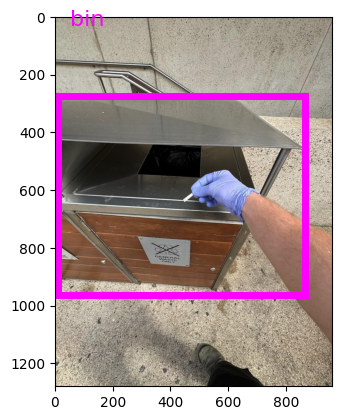
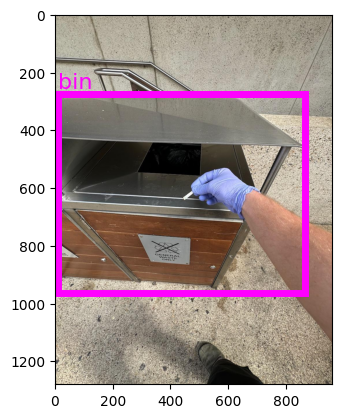
fix typo

diff --git a/_site/posts/a-gentle-guide-to-intersection-over-union/index.html b/_site/posts/a-gentle-guide-to-intersection-over-union/index.html
@@ -1177,7 +1177,7 @@ Box type: shrink | Box: Box(x_min=51.0, y_min=51.0, x_max=149.0, y_max=149.0) | 
 <h3 class="anchored" data-anchor-id="getting-a-real-image-and-real-bounding-box-annotation">Getting a real image and real bounding box annotation</h3>
 <p>We’ll use an image from an object detection project I’ve worked on called <a href="https://www.learnhuggingface.com/notebooks/hugging_face_object_detection_tutorial">Trashify</a>, where the goal is to detect <code>["bin", "trash", "hand"]</code> in an image (if all 3 classes are present, you get +1 point) to encourage people to pick up trash in their local area.</p>
 <p>The annotations are made using <a href="https://prodi.gy/">Prodigy</a>, a labelling tool (there are many kinds of labelling tools out there, you could even get AI to generate a custom one for you).</p>
-<div id="cell-42" class="cell" data-quarto-private-1="{&quot;key&quot;:&quot;colab&quot;,&quot;value&quot;:{&quot;base_uri&quot;:&quot;https://localhost:8080/&quot;}}" data-outputid="189d80b5-6d84-489c-a3ff-4398a238862e">
+<div id="cell-42" class="cell" data-quarto-private-1="{&quot;key&quot;:&quot;colab&quot;,&quot;value&quot;:{&quot;base_uri&quot;:&quot;https://localhost:8080/&quot;}}" data-outputid="189d80b5-6d84-489c-a3ff-4398a238862e" data-execution_count="15">
 <div class="sourceCode cell-code" id="cb27"><pre class="sourceCode python code-with-copy"><code class="sourceCode python"><span id="cb27-1"><a href="#cb27-1" aria-hidden="true" tabindex="-1"></a><span class="im">import</span> os</span>
 <span id="cb27-2"><a href="#cb27-2" aria-hidden="true" tabindex="-1"></a></span>
 <span id="cb27-3"><a href="#cb27-3" aria-hidden="true" tabindex="-1"></a>image_path <span class="op">=</span> <span class="st">"trashify_demo_image_for_box_format.jpeg"</span></span>
@@ -1190,7 +1190,7 @@ Box type: shrink | Box: Box(x_min=51.0, y_min=51.0, x_max=149.0, y_max=149.0) | 
 <span id="cb27-10"><a href="#cb27-10" aria-hidden="true" tabindex="-1"></a>    <span class="op">!</span>wget https:<span class="op">//</span>raw.githubusercontent.com<span class="op">/</span>mrdbourke<span class="op">/</span>learn<span class="op">-</span>ml<span class="op">/</span>refs<span class="op">/</span>heads<span class="op">/</span>main<span class="op">/</span>posts<span class="op">/</span>a<span class="op">-</span>guide<span class="op">-</span>to<span class="op">-</span>bounding<span class="op">-</span>box<span class="op">-</span>formats<span class="op">/</span>data<span class="op">/</span>trashify_demo_image_annotations.json</span></code><button title="Copy to Clipboard" class="code-copy-button"><i class="bi"></i></button></pre></div>
 </div>
 <p>Real image and box annotation downloaded!</p>
-<div id="cell-44" class="cell" data-quarto-private-1="{&quot;key&quot;:&quot;colab&quot;,&quot;value&quot;:{&quot;base_uri&quot;:&quot;https://localhost:8080/&quot;,&quot;height&quot;:452}}" data-outputid="f30d8301-18a9-4c30-d0fd-d4f9eda8745b">
+<div id="cell-44" class="cell" data-quarto-private-1="{&quot;key&quot;:&quot;colab&quot;,&quot;value&quot;:{&quot;base_uri&quot;:&quot;https://localhost:8080/&quot;,&quot;height&quot;:452}}" data-outputid="f30d8301-18a9-4c30-d0fd-d4f9eda8745b" data-execution_count="16">
 <div class="sourceCode cell-code" id="cb28"><pre class="sourceCode python code-with-copy"><code class="sourceCode python"><span id="cb28-1"><a href="#cb28-1" aria-hidden="true" tabindex="-1"></a><span class="im">from</span> PIL <span class="im">import</span> Image</span>
 <span id="cb28-2"><a href="#cb28-2" aria-hidden="true" tabindex="-1"></a></span>
 <span id="cb28-3"><a href="#cb28-3" aria-hidden="true" tabindex="-1"></a>loaded_image <span class="op">=</span> Image.<span class="bu">open</span>(image_path)</span>
@@ -1268,8 +1268,8 @@ Box type: shrink | Box: Box(x_min=51.0, y_min=51.0, x_max=149.0, y_max=149.0) | 
 <span id="cb34-8"><a href="#cb34-8" aria-hidden="true" tabindex="-1"></a></span>
 <span id="cb34-9"><a href="#cb34-9" aria-hidden="true" tabindex="-1"></a>fig, ax <span class="op">=</span> plt.subplots()</span>
 <span id="cb34-10"><a href="#cb34-10" aria-hidden="true" tabindex="-1"></a>ax.add_patch(annotation_rect)</span>
-<span id="cb34-11"><a href="#cb34-11" aria-hidden="true" tabindex="-1"></a>ax.text(x<span class="op">=</span>box_coordinates.x_min,</span>
-<span id="cb34-12"><a href="#cb34-12" aria-hidden="true" tabindex="-1"></a>        y<span class="op">=</span>box_coordinates.y_min <span class="op">-</span> <span class="dv">20</span>,</span>
+<span id="cb34-11"><a href="#cb34-11" aria-hidden="true" tabindex="-1"></a>ax.text(x<span class="op">=</span>real_box_coordinates.x_min,</span>
+<span id="cb34-12"><a href="#cb34-12" aria-hidden="true" tabindex="-1"></a>        y<span class="op">=</span>real_box_coordinates.y_min <span class="op">-</span> <span class="dv">20</span>,</span>
 <span id="cb34-13"><a href="#cb34-13" aria-hidden="true" tabindex="-1"></a>        s<span class="op">=</span>box_label_text,</span>
 <span id="cb34-14"><a href="#cb34-14" aria-hidden="true" tabindex="-1"></a>        color<span class="op">=</span>box_colour,</span>
 <span id="cb34-15"><a href="#cb34-15" aria-hidden="true" tabindex="-1"></a>        fontsize<span class="op">=</span><span class="dv">16</span>)</span>
@@ -1378,7 +1378,7 @@ Box type: shrink | Box: Box(x_min=12.9, y_min=279.3, x_max=863.5, y_max=960.0) |
 </div>
 </div>
 <p>Boxes created, now let’s see what they look like!</p>
-<div id="cell-57" class="cell" data-quarto-private-1="{&quot;key&quot;:&quot;colab&quot;,&quot;value&quot;:{&quot;base_uri&quot;:&quot;https://localhost:8080/&quot;,&quot;height&quot;:756}}" data-outputid="298b5c1c-9260-433d-e07b-6a25e0ef9e8a">
+<div id="cell-57" class="cell" data-quarto-private-1="{&quot;key&quot;:&quot;colab&quot;,&quot;value&quot;:{&quot;base_uri&quot;:&quot;https://localhost:8080/&quot;,&quot;height&quot;:756}}" data-outputid="298b5c1c-9260-433d-e07b-6a25e0ef9e8a" data-execution_count="22">
 <div class="sourceCode cell-code" id="cb38"><pre class="sourceCode python code-with-copy"><code class="sourceCode python"><span id="cb38-1"><a href="#cb38-1" aria-hidden="true" tabindex="-1"></a><span class="im">from</span> matplotlib.patches <span class="im">import</span> Patch</span>
 <span id="cb38-2"><a href="#cb38-2" aria-hidden="true" tabindex="-1"></a></span>
 <span id="cb38-3"><a href="#cb38-3" aria-hidden="true" tabindex="-1"></a><span class="co"># Make a dict for box_type -&gt; colour to plot</span></span>
@@ -1695,27 +1695,27 @@ Box type: shrink | Box: Box(x_min=12.9, y_min=279.3, x_max=863.5, y_max=960.0) |
 <span id="cb51-52"><a href="#cb51-52" aria-hidden="true" tabindex="-1"></a>  results_dict[NUM_SAMPLES] <span class="op">=</span> times</span></code><button title="Copy to Clipboard" class="code-copy-button"><i class="bi"></i></button></pre></div>
 <div class="cell-output cell-output-stdout">
 <pre><code>[INFO] Time taken for 1 samples using batched IoU calculations: 0.0s
-[INFO] Time taken for 1 samples using one by one IoU calculations: 0.00157s
+[INFO] Time taken for 1 samples using one by one IoU calculations: 0.00181s
 [INFO] Total boxes calculated on (per function): 500
 
 [INFO] Time taken for 10 samples using batched IoU calculations: 0.0s
-[INFO] Time taken for 10 samples using one by one IoU calculations: 0.01514s
+[INFO] Time taken for 10 samples using one by one IoU calculations: 0.01475s
 [INFO] Total boxes calculated on (per function): 5000
 
 [INFO] Time taken for 100 samples using batched IoU calculations: 0.001s
-[INFO] Time taken for 100 samples using one by one IoU calculations: 0.14749s
+[INFO] Time taken for 100 samples using one by one IoU calculations: 0.14879s
 [INFO] Total boxes calculated on (per function): 50000
 
 [INFO] Time taken for 1000 samples using batched IoU calculations: 0.012s
-[INFO] Time taken for 1000 samples using one by one IoU calculations: 1.47593s
+[INFO] Time taken for 1000 samples using one by one IoU calculations: 1.47221s
 [INFO] Total boxes calculated on (per function): 500000
 
-[INFO] Time taken for 10000 samples using batched IoU calculations: 0.121s
-[INFO] Time taken for 10000 samples using one by one IoU calculations: 14.57437s
+[INFO] Time taken for 10000 samples using batched IoU calculations: 0.118s
+[INFO] Time taken for 10000 samples using one by one IoU calculations: 14.91115s
 [INFO] Total boxes calculated on (per function): 5000000
 
-CPU times: user 16.3 s, sys: 61.1 ms, total: 16.3 s
-Wall time: 16.3 s</code></pre>
+CPU times: user 16.6 s, sys: 79.1 ms, total: 16.7 s
+Wall time: 16.7 s</code></pre>
 </div>
 </div>
 <p>Woah! Looks like the batch IoU calculations perform far quicker than the one by one calculations.</p>
@@ -1732,11 +1732,11 @@ Wall time: 16.3 s</code></pre>
 <span id="cb53-9"><a href="#cb53-9" aria-hidden="true" tabindex="-1"></a></span>
 <span id="cb53-10"><a href="#cb53-10" aria-hidden="true" tabindex="-1"></a>  <span class="bu">print</span>(<span class="ss">f"[INFO] Using </span><span class="sc">{</span>faster_key<span class="sc">}</span><span class="ss"> for </span><span class="sc">{</span>num_samples<span class="sc">}</span><span class="ss"> samples is </span><span class="sc">{</span><span class="bu">round</span>(times[slower_key] <span class="op">/</span> times[faster_key], <span class="dv">2</span>)<span class="sc">}</span><span class="ss">x faster than using </span><span class="sc">{</span>slower_key<span class="sc">}</span><span class="ss">"</span>)</span></code><button title="Copy to Clipboard" class="code-copy-button"><i class="bi"></i></button></pre></div>
 <div class="cell-output cell-output-stdout">
-<pre><code>[INFO] Using batch_iou_time for 1 samples is 120.45x faster than using one_by_one_iou_time
-[INFO] Using batch_iou_time for 10 samples is 120.45x faster than using one_by_one_iou_time
-[INFO] Using batch_iou_time for 100 samples is 120.45x faster than using one_by_one_iou_time
-[INFO] Using batch_iou_time for 1000 samples is 120.45x faster than using one_by_one_iou_time
-[INFO] Using batch_iou_time for 10000 samples is 120.45x faster than using one_by_one_iou_time</code></pre>
+<pre><code>[INFO] Using batch_iou_time for 1 samples is 126.37x faster than using one_by_one_iou_time
+[INFO] Using batch_iou_time for 10 samples is 126.37x faster than using one_by_one_iou_time
+[INFO] Using batch_iou_time for 100 samples is 126.37x faster than using one_by_one_iou_time
+[INFO] Using batch_iou_time for 1000 samples is 126.37x faster than using one_by_one_iou_time
+[INFO] Using batch_iou_time for 10000 samples is 126.37x faster than using one_by_one_iou_time</code></pre>
 </div>
 </div>
 <p>Ok ok…</p>
@@ -1747,11 +1747,11 @@ Wall time: 16.3 s</code></pre>
 <div id="cell-77" class="cell" data-quarto-private-1="{&quot;key&quot;:&quot;colab&quot;,&quot;value&quot;:{&quot;base_uri&quot;:&quot;https://localhost:8080/&quot;}}" data-outputid="c9260a4f-1b03-47ed-b88e-ab4fd71a319a" data-execution_count="31">
 <div class="sourceCode cell-code" id="cb55"><pre class="sourceCode python code-with-copy"><code class="sourceCode python"><span id="cb55-1"><a href="#cb55-1" aria-hidden="true" tabindex="-1"></a>results_dict</span></code><button title="Copy to Clipboard" class="code-copy-button"><i class="bi"></i></button></pre></div>
 <div class="cell-output cell-output-display" data-execution_count="31">
-<pre><code>{1: {'batch_iou_time': 0.0, 'one_by_one_iou_time': 0.00157},
- 10: {'batch_iou_time': 0.0, 'one_by_one_iou_time': 0.01514},
- 100: {'batch_iou_time': 0.001, 'one_by_one_iou_time': 0.14749},
- 1000: {'batch_iou_time': 0.012, 'one_by_one_iou_time': 1.47593},
- 10000: {'batch_iou_time': 0.121, 'one_by_one_iou_time': 14.57437}}</code></pre>
+<pre><code>{1: {'batch_iou_time': 0.0, 'one_by_one_iou_time': 0.00181},
+ 10: {'batch_iou_time': 0.0, 'one_by_one_iou_time': 0.01475},
+ 100: {'batch_iou_time': 0.001, 'one_by_one_iou_time': 0.14879},
+ 1000: {'batch_iou_time': 0.012, 'one_by_one_iou_time': 1.47221},
+ 10000: {'batch_iou_time': 0.118, 'one_by_one_iou_time': 14.91115}}</code></pre>
 </div>
 </div>
 <p>Beautiful!</p>

diff --git a/_site/blog.html b/_site/blog.html
@@ -20,41 +20,6 @@ ul.task-list li input[type="checkbox"] {
   margin: 0 0.8em 0.2em -1em; /* quarto-specific, see https://github.com/quarto-dev/quarto-cli/issues/4556 */ 
   vertical-align: middle;
 }
-/* CSS for syntax highlighting */
-html { -webkit-text-size-adjust: 100%; }
-pre > code.sourceCode { white-space: pre; position: relative; }
-pre > code.sourceCode > span { display: inline-block; line-height: 1.25; }
-pre > code.sourceCode > span:empty { height: 1.2em; }
-.sourceCode { overflow: visible; }
-code.sourceCode > span { color: inherit; text-decoration: inherit; }
-div.sourceCode { margin: 1em 0; }
-pre.sourceCode { margin: 0; }
-@media screen {
-div.sourceCode { overflow: auto; }
-}
-@media print {
-pre > code.sourceCode { white-space: pre-wrap; }
-pre > code.sourceCode > span { text-indent: -5em; padding-left: 5em; }
-}
-pre.numberSource code
-  { counter-reset: source-line 0; }
-pre.numberSource code > span
-  { position: relative; left: -4em; counter-increment: source-line; }
-pre.numberSource code > span > a:first-child::before
-  { content: counter(source-line);
-    position: relative; left: -1em; text-align: right; vertical-align: baseline;
-    border: none; display: inline-block;
-    -webkit-touch-callout: none; -webkit-user-select: none;
-    -khtml-user-select: none; -moz-user-select: none;
-    -ms-user-select: none; user-select: none;
-    padding: 0 4px; width: 4em;
-  }
-pre.numberSource { margin-left: 3em;  padding-left: 4px; }
-div.sourceCode
-  {   }
-@media screen {
-pre > code.sourceCode > span > a:first-child::before { text-decoration: underline; }
-}
 </style>
 
 
@@ -220,7 +185,7 @@ window.Quarto = {
 <header id="title-block-header" class="quarto-title-block default page-columns page-full">
   <div class="quarto-title-banner page-columns page-full">
     <div class="quarto-title column-page-left">
-      <div class="quarto-title-block"><div><h1 class="title">Blog</h1><button type="button" class="btn code-tools-button" id="quarto-code-tools-source"><i class="bi"></i></button></div></div>
+      <div class="quarto-title-block"><div><h1 class="title">Blog</h1><button type="button" class="btn code-tools-button" id="quarto-code-tools-source" data-quarto-source-url="https://github.com/mrdbourke/learn-ml/blob/main/blog.qmd"><i class="bi"></i> Code</button></div></div>
                       </div>
   </div>
     
@@ -249,12 +214,10 @@ window.Quarto = {
 
 
 
-<!-- -->
-
 
 <div class="quarto-listing quarto-listing-container-default" id="listing-listing">
 <div class="list quarto-listing-default">
[2 lines of base64/hex data omitted]
 <div class="thumbnail"><a href="./posts/a-gentle-guide-to-intersection-over-union/index.html" class="no-external">
 
 <img loading="lazy" src="./posts/a-gentle-guide-to-intersection-over-union/images/iou-blog-post-cover.jpg" class="thumbnail-image">
@@ -852,24 +815,10 @@ Daniel Bourke
       }
     }
   });
-  </script><div class="modal fade" id="quarto-embedded-source-code-modal" tabindex="-1" aria-labelledby="quarto-embedded-source-code-modal-label" aria-hidden="true"><div class="modal-dialog modal-dialog-scrollable"><div class="modal-content"><div class="modal-header"><h5 class="modal-title" id="quarto-embedded-source-code-modal-label">Source Code</h5><button class="btn-close" data-bs-dismiss="modal"></button></div><div class="modal-body"><div class="">
-<div class="sourceCode" id="cb1" data-shortcodes="false"><pre class="sourceCode markdown code-with-copy"><code class="sourceCode markdown"><span id="cb1-1"><a href="#cb1-1" aria-hidden="true" tabindex="-1"></a><span class="co">---</span></span>
-<span id="cb1-2"><a href="#cb1-2" aria-hidden="true" tabindex="-1"></a><span class="an">title:</span><span class="co"> "Blog"</span></span>
-<span id="cb1-3"><a href="#cb1-3" aria-hidden="true" tabindex="-1"></a><span class="an">listing:</span></span>
-<span id="cb1-4"><a href="#cb1-4" aria-hidden="true" tabindex="-1"></a><span class="co">  contents: posts</span></span>
-<span id="cb1-5"><a href="#cb1-5" aria-hidden="true" tabindex="-1"></a><span class="co">  sort: "date desc"</span></span>
-<span id="cb1-6"><a href="#cb1-6" aria-hidden="true" tabindex="-1"></a><span class="co">  type: default</span></span>
-<span id="cb1-7"><a href="#cb1-7" aria-hidden="true" tabindex="-1"></a><span class="co">  categories: true</span></span>
-<span id="cb1-8"><a href="#cb1-8" aria-hidden="true" tabindex="-1"></a><span class="co">  sort-ui: false</span></span>
-<span id="cb1-9"><a href="#cb1-9" aria-hidden="true" tabindex="-1"></a><span class="co">  filter-ui: false</span></span>
-<span id="cb1-10"><a href="#cb1-10" aria-hidden="true" tabindex="-1"></a><span class="co">  feed: true</span></span>
-<span id="cb1-11"><a href="#cb1-11" aria-hidden="true" tabindex="-1"></a><span class="an">page-layout:</span><span class="co"> full</span></span>
-<span id="cb1-12"><a href="#cb1-12" aria-hidden="true" tabindex="-1"></a><span class="an">title-block-banner:</span><span class="co"> true</span></span>
-<span id="cb1-13"><a href="#cb1-13" aria-hidden="true" tabindex="-1"></a><span class="co">---</span></span></code><button title="Copy to Clipboard" class="code-copy-button" data-in-quarto-modal=""><i class="bi"></i></button></pre></div>
-</div></div></div></div></div>
+  </script>
 </div> <!-- /content -->
 
 
 
 
-</body></html>
+<footer class="footer"><div class="nav-footer"><div class="nav-footer-center"><div class="toc-actions"><ul><li><a href="https://github.com/mrdbourke/learn-ml/edit/main/blog.qmd" class="toc-action"><i class="bi bi-github"></i>Edit this page</a></li><li><a href="https://github.com/mrdbourke/learn-ml/issues/new" class="toc-action"><i class="bi empty"></i>Report an issue</a></li></ul></div></div></div></footer></body></html>

diff --git a/_site/index.html b/_site/index.html
@@ -134,14 +134,14 @@ ul.task-list li input[type="checkbox"] {
   <li><a href="#section-1" id="toc-section-1" class="nav-link" data-scroll-target="#section-1">2024-08-18</a></li>
   <li><a href="#section-2" id="toc-section-2" class="nav-link" data-scroll-target="#section-2">2024-08-10</a></li>
   </ul>
-</nav>
+<div class="toc-actions"><ul><li><a href="https://github.com/mrdbourke/learn-ml/edit/main/index.qmd" class="toc-action"><i class="bi bi-github"></i>Edit this page</a></li><li><a href="https://github.com/mrdbourke/learn-ml/issues/new" class="toc-action"><i class="bi empty"></i>Report an issue</a></li></ul></div></nav>
     </div>
 <!-- main -->
 <main class="content" id="quarto-document-content">
 
 <header id="title-block-header" class="quarto-title-block default">
 <div class="quarto-title">
-<h1 class="title">Learning ML - Timeline</h1>
+<div class="quarto-title-block"><div><h1 class="title">Learning ML - Timeline</h1><button type="button" class="btn code-tools-button" id="quarto-code-tools-source" data-quarto-source-url="https://github.com/mrdbourke/learn-ml/blob/main/index.qmd"><i class="bi"></i> Code</button></div></div>
 </div>
 
 
@@ -257,6 +257,57 @@ ul.task-list li input[type="checkbox"] {
         container: window.document.getElementById('quarto-embedded-source-code-modal')
       });
       clipboardModal.on('success', onCopySuccess);
+    }
+    const viewSource = window.document.getElementById('quarto-view-source') ||
+                       window.document.getElementById('quarto-code-tools-source');
+    if (viewSource) {
+      const sourceUrl = viewSource.getAttribute("data-quarto-source-url");
+      viewSource.addEventListener("click", function(e) {
+        if (sourceUrl) {
+          // rstudio viewer pane
+          if (/\bcapabilities=\b/.test(window.location)) {
+            window.open(sourceUrl);
+          } else {
+            window.location.href = sourceUrl;
+          }
+        } else {
+          const modal = new bootstrap.Modal(document.getElementById('quarto-embedded-source-code-modal'));
+          modal.show();
+        }
+        return false;
+      });
+    }
+    function toggleCodeHandler(show) {
+      return function(e) {
+        const detailsSrc = window.document.querySelectorAll(".cell > details > .sourceCode");
+        for (let i=0; i<detailsSrc.length; i++) {
+          const details = detailsSrc[i].parentElement;
+          if (show) {
+            details.open = true;
+          } else {
+            details.removeAttribute("open");
+          }
+        }
+        const cellCodeDivs = window.document.querySelectorAll(".cell > .sourceCode");
+        const fromCls = show ? "hidden" : "unhidden";
+        const toCls = show ? "unhidden" : "hidden";
+        for (let i=0; i<cellCodeDivs.length; i++) {
+          const codeDiv = cellCodeDivs[i];
+          if (codeDiv.classList.contains(fromCls)) {
+            codeDiv.classList.remove(fromCls);
+            codeDiv.classList.add(toCls);
+          } 
+        }
+        return false;
+      }
+    }
+    const hideAllCode = window.document.getElementById("quarto-hide-all-code");
+    if (hideAllCode) {
+      hideAllCode.addEventListener("click", toggleCodeHandler(false));
+    }
+    const showAllCode = window.document.getElementById("quarto-show-all-code");
+    if (showAllCode) {
+      showAllCode.addEventListener("click", toggleCodeHandler(true));
     }
       var localhostRegex = new RegExp(/^(?:http|https):\/\/localhost\:?[0-9]*\//);
       var mailtoRegex = new RegExp(/^mailto:/);
@@ -592,4 +643,4 @@ ul.task-list li input[type="checkbox"] {
 
 
 
-</body></html>
+<footer class="footer"><div class="nav-footer"><div class="nav-footer-center"><div class="toc-actions d-sm-block d-md-none"><ul><li><a href="https://github.com/mrdbourke/learn-ml/edit/main/index.qmd" class="toc-action"><i class="bi bi-github"></i>Edit this page</a></li><li><a href="https://github.com/mrdbourke/learn-ml/issues/new" class="toc-action"><i class="bi empty"></i>Report an issue</a></li></ul></div></div></div></footer></body></html>
